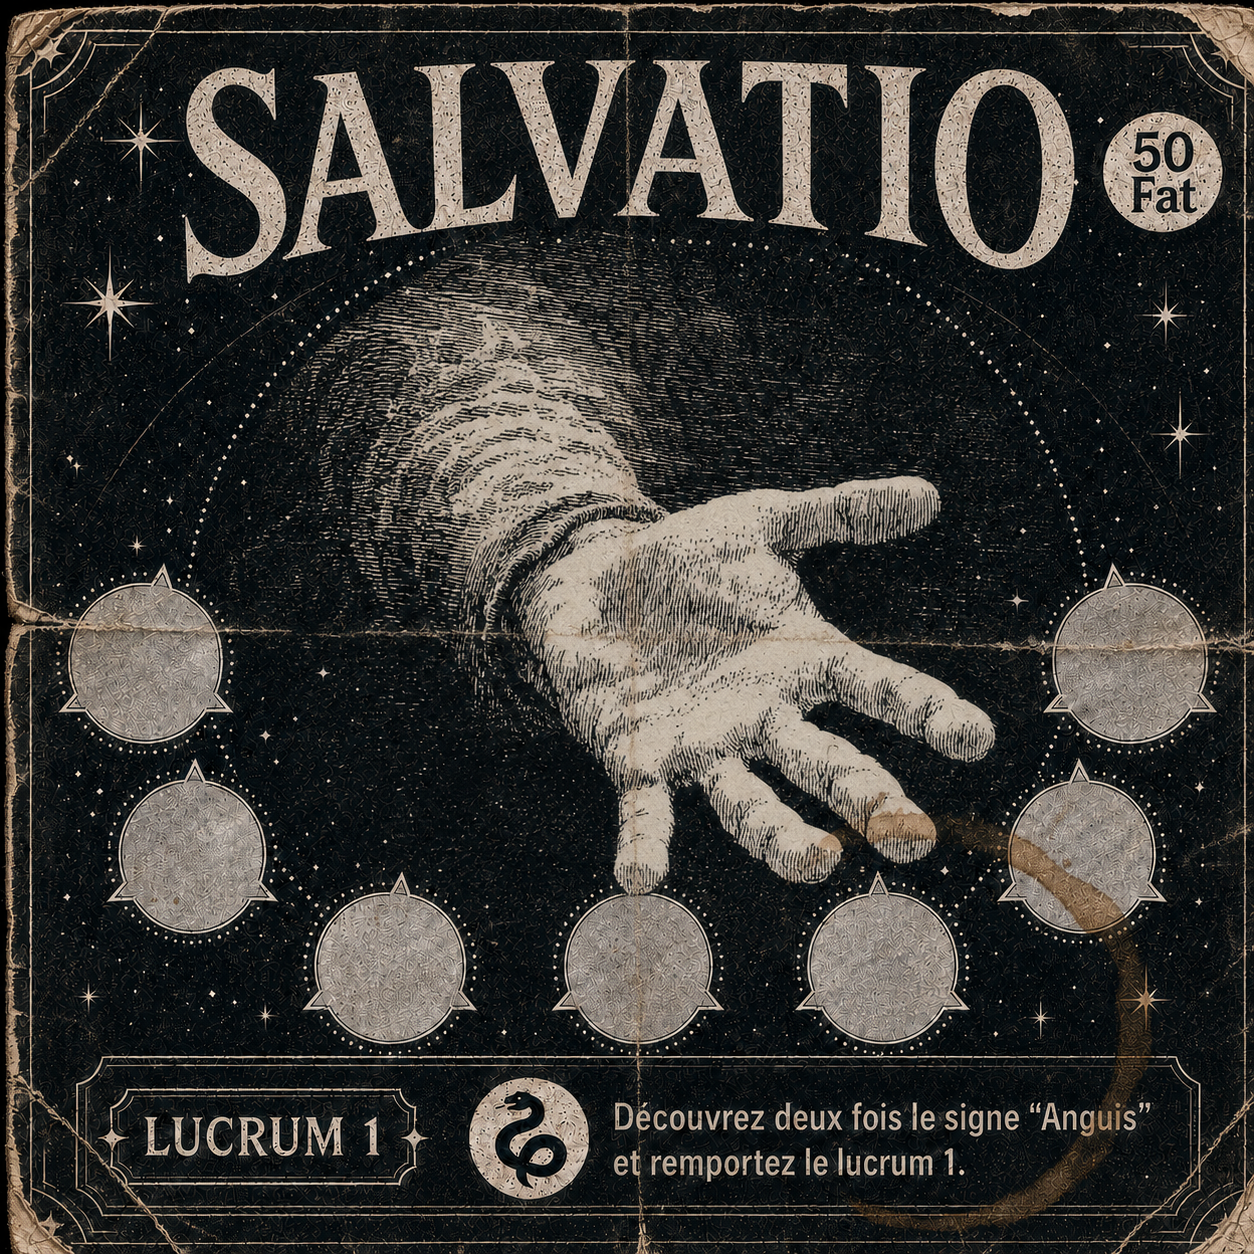
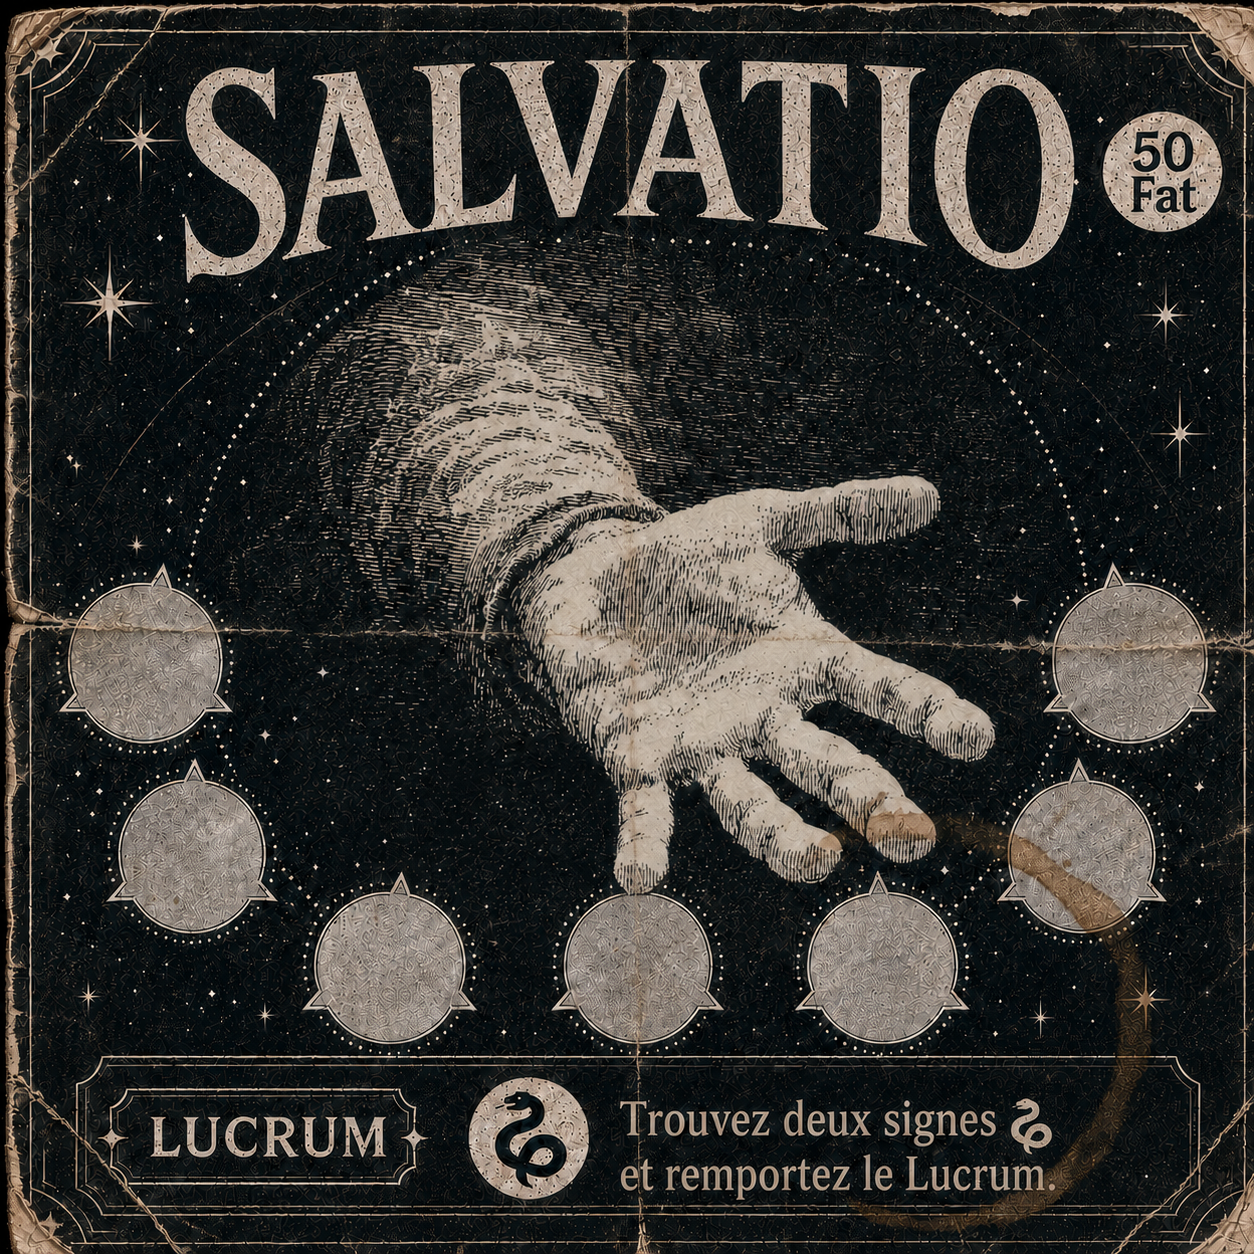
Update Salvatio card artwork

diff --git a/src/App.jsx b/src/App.jsx
@@ -2216,7 +2216,7 @@ function FatumGlyphs({ score, invert = false }) {
 
 
 const SALVATIO_COST = 50;
-const SALVATIO_CARD_SRC = "/images/salvatio/salvatio-card.png?v=1";
+const SALVATIO_CARD_SRC = "/images/salvatio/salvatio-card.png?v=2";
 const SALVATIO_ANGUIS_SRC = "/images/salvatio/anguis.png?v=1";
 const SALVATIO_SKULL_SRC = "/images/fatum/calvaria.png";
 
@@ -2618,14 +2618,6 @@ function SalvatioScreen({ onIterum, onClaves, onNoctem, onVerbatim, onDuodecim, 
         <div className="relative mx-auto aspect-square w-full overflow-hidden rounded-[1.25rem] shadow-2xl shadow-black/50">
           <img src={SALVATIO_CARD_SRC} alt="Carte Salvatio" className="absolute inset-0 h-full w-full select-none object-cover" draggable={false} />
 
-          <div className="pointer-events-none absolute left-[8.8%] top-[84.7%] z-[11] flex h-[7.6%] w-[28.3%] items-center justify-center rounded-[0.4rem] bg-[#11100d]/88 text-[clamp(0.7rem,3.2vw,1.2rem)] font-semibold uppercase tracking-[0.08em] text-white/88">
-            Lucrum
-          </div>
-          <div className="pointer-events-none absolute left-[42%] top-[84.3%] z-[11] flex h-[8.4%] w-[48%] items-center justify-start gap-[1.4%] rounded-[0.4rem] bg-[#11100d]/88 px-[2%] text-left text-[clamp(0.44rem,1.9vw,0.72rem)] font-semibold leading-[1.1] text-white/82">
-            <span>Trouvez deux signes</span>
-            <AnguisGlyph className="h-[1.3em] w-[1.3em] text-white" />
-            <span>et remportez le Lucrum.</span>
-          </div>
 
           {SALVATIO_ZONES.map((zone, index) => {
             const revealedZone = revealed.includes(index);
